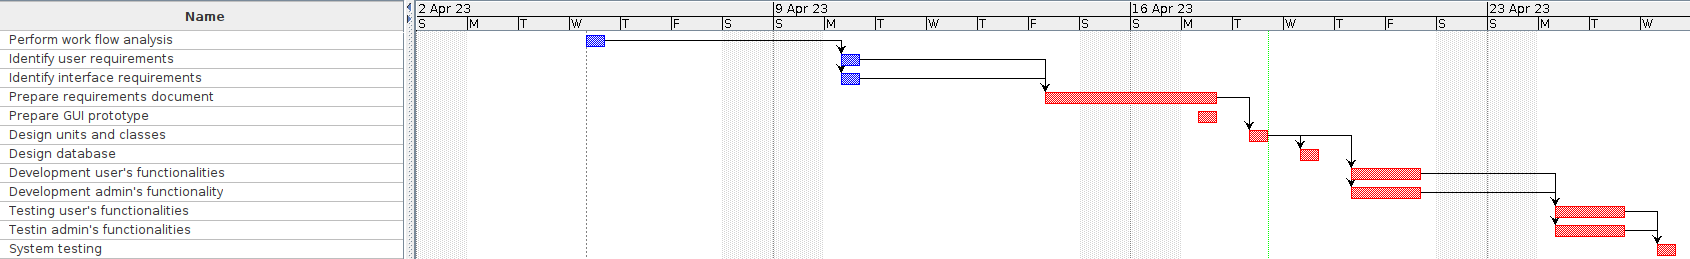
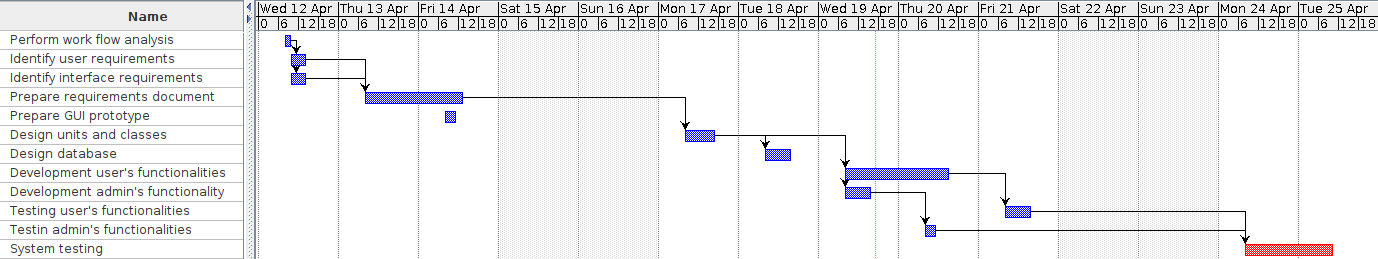
updated EstimationV1

diff --git a/EstimationV1.md b/EstimationV1.md
@@ -10,7 +10,7 @@ Consider the EZWallet  project in CURRENT version (as received by the teachers),
 ### 
 |             | Estimate                        |             
 | ----------- | ------------------------------- |  
-| NC =  Estimated number of classes to be developed   | 4 |             
+| NC =  Estimated number of modules to be developed   | 4 |             
 |  A = Estimated average size per class, in LOC       | 80 | 
 | S = Estimated size of project, in LOC (= NC * A) | 320 |
 | E = Estimated effort, in person hours (here use productivity 10 LOC per person hour)  |   8 |   
@@ -21,13 +21,14 @@ Consider the EZWallet  project in CURRENT version (as received by the teachers),
 ### 
 |         component name    | Estimated effort (person hours)   |             
 | ----------- | ------------------------------- | 
-|requirement document    | 6 |
-| GUI prototype | 1 |
+|requirement document    | 7 |
+| GUI prototype | 5 |
 |design document | 8 |
-|code | 8 |
-| unit tests | 6 |
-| api tests | 6 |
-| management documents  | 5 |
+|code | 30 |
+| unit tests | 15 |
+| api tests | 20 |
+| management documents  | 15 |
+
 
 
 
@@ -35,21 +36,21 @@ Consider the EZWallet  project in CURRENT version (as received by the teachers),
 ### 
 |         Activity name    | Estimated effort (person hours)   |             
 | ----------- | ------------------------------- | 
-| Perform work flow  analysis | 0.5 |
-| Identify user requirements | 1 |
-| Identify interface requirements| 1 |
-| Prepare requirements document | 3.5 |
-| Prepare GUI prototype | 1 |
-| Design units and classes | 2 |
-| Design database | 2 |
-| Development user's functionalities | 4 |
-| Development admin's functionalities | 2 |
-| Testing user's functionalities | 2 |
-| Testing admin's functionalities | 1 |
-| System test | 1 |
+| Perform work flow  analysis | 2 |
+| Identify user requirements | 4 |
+| Identify interface requirements| 4 |
+| Prepare requirements document | 14 |
+| Prepare GUI prototype | 4 |
+| Design units and classes | 8 |
+| Design database | 8 |
+| Development user's functionalities | 16 |
+| Development admin's functionalities | 8 |
+| Testing user's functionalities | 8 |
+| Testing admin's functionalities | 4 |
+| System test | 12 |
 ###
 Insert here Gantt chart with above activities
-![Gantt Diagram](code/images/GanttV1.png)
+![Gantt Diagram](code/images/ganttV1.png)
 # Summary
 
 Report here the results of the three estimation approaches. The  estimates may differ. Discuss here the possible reasons for the difference
@@ -57,8 +58,8 @@ Report here the results of the three estimation approaches. The  estimates may d
 |             | Estimated effort                        |   Estimated duration |          
 | ----------- | ------------------------------- | ---------------|
 | estimate by size |8 person hours|0.2 calendar weeks|
-| estimate by product decomposition |10 person hours|0.25 calendar weeks|
-| estimate by activity decomposition |16 person hours|0.4 calendar weeks|
+| estimate by product decomposition |100 person hours| 0.7 calendar weeks|
+| estimate by activity decomposition | 92 person hours| 0.6 calendar weeks|
 
 
 
